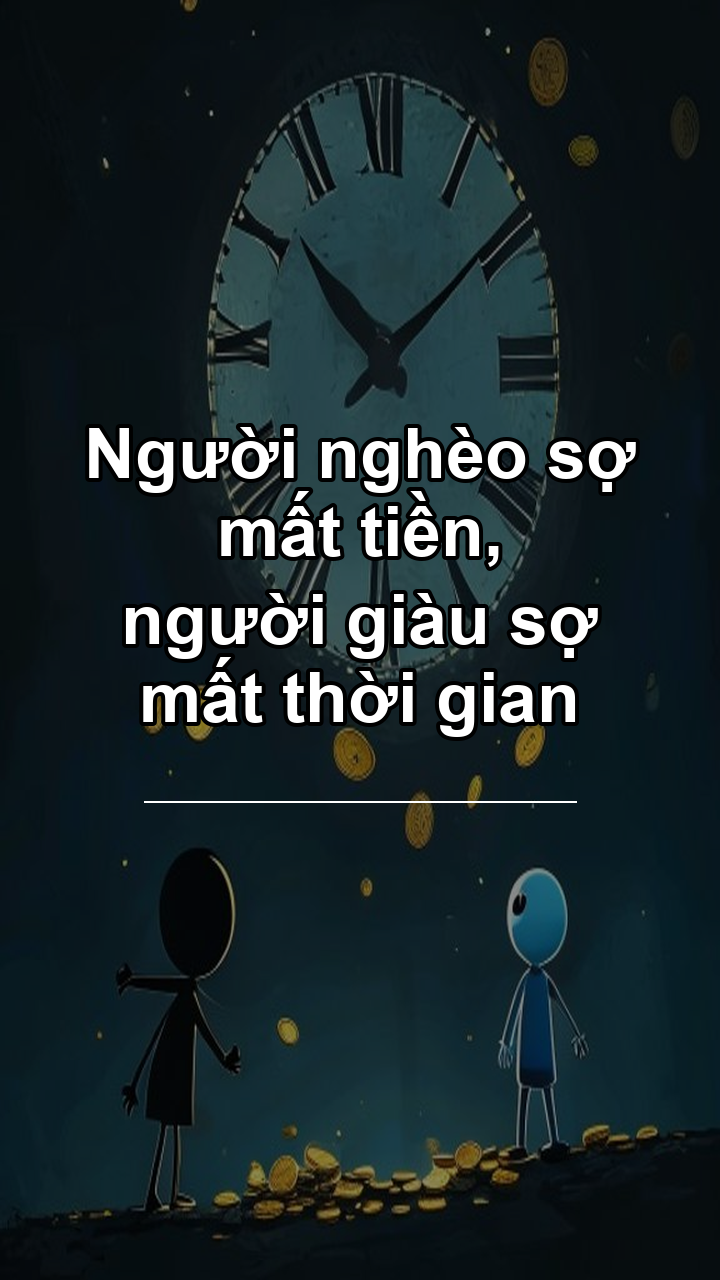
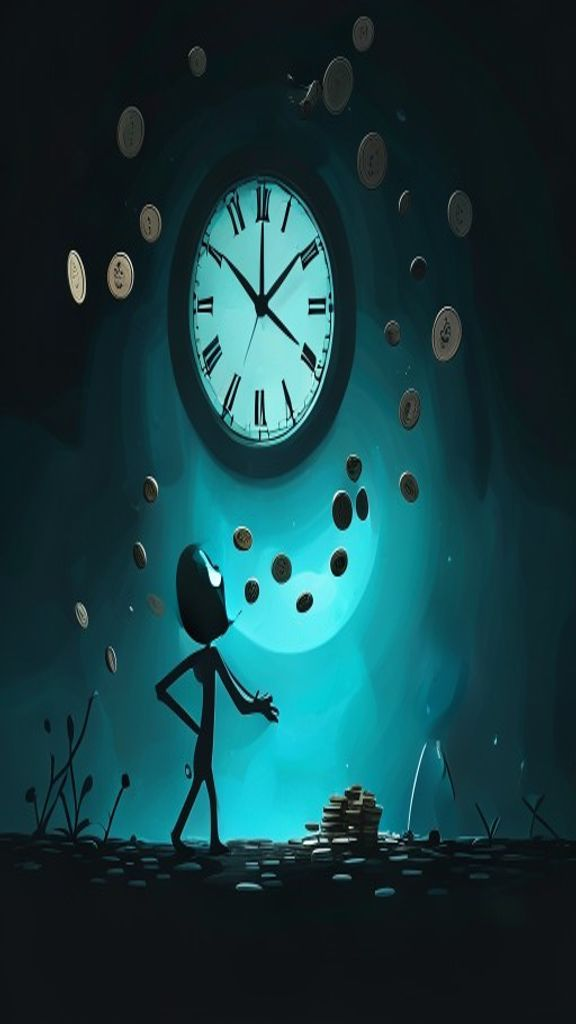
Update

diff --git a/pipeline/idea_parser.py b/pipeline/idea_parser.py
@@ -116,11 +116,9 @@ def parse_idea_file(filepath):
         camera_motion = _extract_camera(block, scene_id)
 
         # ═══════════════════════════════════════
-        # Parse phụ đề (nếu có trong file, ngược lại tự động tạo)
+        # Parse phụ đề (nếu có trong file, ngược lại tự động tạo bằng Gemini/fallback)
         # ═══════════════════════════════════════
         subtitle = _extract_subtitle(block)
-        if not subtitle:
-            subtitle = _make_subtitle(narration)
 
         scenes.append({
             "scene_id": scene_id,
@@ -136,6 +134,16 @@ def parse_idea_file(filepath):
         print("❌ File idea.txt không chứa scene nào hợp lệ!")
         print("   👉 Mỗi scene cần có: ## Thời gian:, Lời thoại, Visual Prompt")
         sys.exit(1)
+
+    # Tự động tóm tắt phụ đề bằng Gemini nếu thiếu
+    scenes_to_summarize = [s for s in scenes if not s["subtitle"]]
+    if scenes_to_summarize:
+        print(f"   📡 Đang tóm tắt {len(scenes_to_summarize)} phụ đề thiếu bằng Gemini...")
+        narrations = [s["narration"] for s in scenes_to_summarize]
+        summarized_subs = batch_summarize_narrations(narrations)
+        for scene, sub in zip(scenes_to_summarize, summarized_subs):
+            scene["subtitle"] = sub
+            print(f"      📝 Scene {scene['scene_id']}: \"{scene['subtitle']}\"")
 
     # Gán fallback cho intro_prompt và outro_prompt nếu chưa có
     if not intro_prompt and scenes:
@@ -227,3 +235,113 @@ def _make_subtitle(narration, max_len=65):
         truncated = truncated[:last_space]
 
     return truncated + "..."
+
+
+def batch_summarize_narrations(narrations):
+    """
+    Sử dụng Gemini để tóm tắt danh sách lời thoại thành các phụ đề siêu ngắn gọn (< 8 từ) bằng tiếng Việt.
+    """
+    import google.generativeai as genai
+    from config import GEMINI_API_KEY, GEMINI_MODEL, GEMINI_FALLBACK_MODELS
+    import json
+
+    if not GEMINI_API_KEY or GEMINI_API_KEY == "YOUR_API_KEY_HERE" or GEMINI_API_KEY == "":
+        print("   ⚠️  Không tìm thấy Gemini API Key, sử dụng thuật toán tóm tắt local...")
+        return [_local_fallback_summary(n) for n in narrations]
+
+    genai.configure(api_key=GEMINI_API_KEY)
+
+    # Xây dựng prompt
+    prompt = """Bạn là chuyên gia viết phụ đề cho video ngắn (TikTok/Reels/Shorts).
+Hãy tóm tắt các câu thoại dưới đây thành các phụ đề (subtitle) siêu ngắn, súc tích (dưới 8 từ, tuyệt đối KHÔNG chứa dấu ba chấm "...") bằng tiếng Việt.
+Yêu cầu phụ đề phải cô đọng được ý chính hoặc thông điệp cốt lõi của câu thoại để người xem có thể đọc lướt trên điện thoại trong 1-2 giây. Tuyệt đối không dịch nghĩa thô hay chỉ cắt cụt câu.
+
+Danh sách câu thoại cần tóm tắt:
+"""
+    for i, narration in enumerate(narrations):
+        prompt += f"{i+1}. {narration}\n"
+
+    prompt += """
+Trả về kết quả dưới dạng một JSON array gồm các chuỗi (string) phụ đề tương ứng, ví dụ:
+[
+  "Phụ đề tóm tắt 1",
+  "Phụ đề tóm tắt 2"
+]
+Chú ý: Chỉ trả về JSON thuần túy, không có markdown (như ```json) hay giải thích gì thêm."""
+
+    # Thử model chính trước, sau đó fallback
+    models_to_try = [GEMINI_MODEL] + [m for m in GEMINI_FALLBACK_MODELS if m != GEMINI_MODEL]
+
+    for model_name in models_to_try:
+        try:
+            model = genai.GenerativeModel(model_name)
+            response = model.generate_content(prompt)
+            text = response.text.strip()
+
+            # Clean JSON response
+            if text.startswith("```"):
+                first_newline = text.find("\n")
+                if first_newline != -1:
+                    text = text[first_newline + 1:]
+                last_backtick = text.rfind("```")
+                if last_backtick != -1:
+                    text = text[:last_backtick]
+            text = text.strip()
+            
+            start = text.find("[")
+            end = text.rfind("]")
+            if start != -1 and end != -1 and end > start:
+                text = text[start:end + 1]
+
+            subtitles = json.loads(text)
+            if isinstance(subtitles, list) and len(subtitles) == len(narrations):
+                cleaned = [str(s).strip('"\u201c\u201d\u2018\u2019 ') for s in subtitles]
+                return cleaned
+        except Exception as e:
+            print(f"   ⚠️ Lỗi với model '{model_name}': {e}")
+            continue
+
+    print("   ⚠️ Tất cả các model tóm tắt đều thất bại, dùng local fallback...")
+    return [_local_fallback_summary(n) for n in narrations]
+
+
+def _local_fallback_summary(narration, max_words=8):
+    """
+    Tóm tắt local thông minh hơn bằng cách tách các vế câu qua dấu câu (dấu phẩy, hai chấm, chấm phẩy, ba chấm).
+    Đảm bảo câu ngắn gọn nhưng có ý nghĩa trọn vẹn, không bị cắt cụt lửng lơ ở cuối từ.
+    """
+    # Loại bỏ ngoặc kép và khoảng trắng thừa
+    text = narration.strip('"\u201c\u201d\u2018\u2019 ')
+    
+    # Tách câu đầu tiên nếu có nhiều câu
+    sentences = re.split(r'[.?!]', text)
+    sentences = [s.strip() for s in sentences if s.strip()]
+    first_sentence = sentences[0] if sentences else text
+    
+    # Nếu câu đầu tiên ngắn (dưới max_words từ), lấy luôn cả câu
+    words = first_sentence.split()
+    if len(words) <= max_words:
+        return first_sentence
+        
+    # Tách câu thành các vế bằng các dấu câu phổ biến
+    clauses = re.split(r'[,:;…\-\—]', first_sentence)
+    clauses = [c.strip() for c in clauses if c.strip()]
+    
+    # Duyệt qua các vế để tìm vế có độ dài thích hợp nhất (từ 3 đến max_words từ)
+    for clause in clauses:
+        clause_words = clause.split()
+        if 3 <= len(clause_words) <= max_words:
+            # Viết hoa chữ cái đầu
+            if len(clause) > 1:
+                return clause[0].upper() + clause[1:]
+            return clause
+            
+    # Nếu không tìm thấy vế nào phù hợp, lấy vế đầu tiên nếu vế đó dưới 10 từ
+    if clauses:
+        first_clause = clauses[0]
+        clause_words = first_clause.split()
+        if len(clause_words) <= 10:
+            return first_clause
+            
+    # Fallback cuối cùng: cắt cúp theo số lượng từ tối đa nhưng không thêm dấu ba chấm
+    return " ".join(words[:max_words])

diff --git a/pipeline/image_generator.py b/pipeline/image_generator.py
@@ -167,20 +167,21 @@ def _get_portrait_request_size():
     return width, height
 
 
-def burn_subtitle_to_image(image_path, subtitle_text):
+def draw_subtitle_on_image_obj(img, subtitle_text):
     """
-    Vẽ phụ đề trực tiếp lên hình ảnh tĩnh (burned-in subtitle).
-    Giúp hỗ trợ phụ đề ngay cả khi FFmpeg không có filter 'subtitles' hoặc 'drawtext'.
+    Vẽ phụ đề trực tiếp lên một đối tượng PIL Image.
+    Trả về ảnh đã được vẽ phụ đề.
     """
     if not subtitle_text:
-        return
+        return img
     try:
         from PIL import Image, ImageDraw, ImageFont
         import textwrap
 
-        img = Image.open(image_path)
-        draw = ImageDraw.Draw(img)
-        width, height = img.size
+        # Tạo bản sao RGBA để vẽ overlay trong suốt
+        img_rgba = img.convert('RGBA')
+        draw = ImageDraw.Draw(img_rgba)
+        width, height = img_rgba.size
 
         # Cấu hình text — dùng tỷ lệ từ config
         font_size = int(height * SUBTITLE_FONT_SIZE_RATIO)
@@ -206,7 +207,7 @@ def burn_subtitle_to_image(image_path, subtitle_text):
             font = ImageFont.load_default()
 
         # Wrap text thành các dòng tối đa ~40 ký tự tiếng Việt
-        lines = textwrap.wrap(subtitle_text, width=45)
+        lines = textwrap.wrap(subtitle_text, width=40)
         
         # Tính kích thước khối chữ
         line_heights = []
@@ -231,15 +232,15 @@ def burn_subtitle_to_image(image_path, subtitle_text):
         box_x2 = min(width - 10, box_x2)
 
         # Vẽ nền đen bán trong suốt cực kỳ nhẹ (khoảng 33% opacity)
-        overlay = Image.new('RGBA', img.size, (0, 0, 0, 0))
+        overlay = Image.new('RGBA', img_rgba.size, (0, 0, 0, 0))
         overlay_draw = ImageDraw.Draw(overlay)
         overlay_draw.rounded_rectangle(
             [box_x1, box_y1, box_x2, box_y2],
             radius=8,
             fill=(0, 0, 0, 85)
         )
-        img = Image.alpha_composite(img.convert('RGBA'), overlay)
-        draw = ImageDraw.Draw(img)
+        img_rgba = Image.alpha_composite(img_rgba, overlay)
+        draw = ImageDraw.Draw(img_rgba)
 
         # Vẽ chữ màu trắng với viền đen dày (stroke outline) đè lên trên nền mờ
         current_y = box_y1 + 8
@@ -257,8 +258,24 @@ def burn_subtitle_to_image(image_path, subtitle_text):
             )
             current_y += line_heights[i] + 8
 
-        # Lưu đè lên ảnh gốc
-        img.convert('RGB').save(image_path)
+        return img_rgba.convert('RGB')
+    except Exception as e:
+        print(f"      ⚠️ Không thể vẽ phụ đề lên đối tượng ảnh: {e}")
+        return img
+
+
+def burn_subtitle_to_image(image_path, subtitle_text):
+    """
+    Vẽ phụ đề trực tiếp lên hình ảnh tĩnh (burned-in subtitle).
+    Giúp hỗ trợ phụ đề ngay cả khi FFmpeg không có filter 'subtitles' hoặc 'drawtext'.
+    """
+    if not subtitle_text:
+        return
+    try:
+        from PIL import Image
+        img = Image.open(image_path)
+        img_with_sub = draw_subtitle_on_image_obj(img, subtitle_text)
+        img_with_sub.save(image_path)
         print(f"      📝 Đã burn phụ đề vào ảnh (Bold + Outline): \"{subtitle_text}\"")
     except Exception as e:
         print(f"      ⚠️ Không thể burn phụ đề vào ảnh: {e}")

diff --git a/pipeline/video_animator.py b/pipeline/video_animator.py
@@ -36,9 +36,10 @@ def _resize_cover(img, width, height):
     return resized.crop((left, top, left + width, top + height))
 
 
-def _render_zoom_frames(image_path, process, total_frames, camera_motion):
+def _render_zoom_frames(image_path, process, total_frames, camera_motion, subtitle_text=None):
     """Render từng frame bằng Pillow rồi pipe raw RGB vào FFmpeg."""
     from PIL import Image
+    from pipeline.image_generator import draw_subtitle_on_image_obj
 
     base = Image.open(image_path).convert("RGB")
     base = _resize_cover(base, VIDEO_WIDTH, VIDEO_HEIGHT)
@@ -52,6 +53,11 @@ def _render_zoom_frames(image_path, process, total_frames, camera_motion):
         left = (zoom_w - VIDEO_WIDTH) // 2
         top = (zoom_h - VIDEO_HEIGHT) // 2
         frame = frame.crop((left, top, left + VIDEO_WIDTH, top + VIDEO_HEIGHT))
+        
+        # Vẽ phụ đề tĩnh trực tiếp lên frame đã crop chính xác kích thước video 9:16
+        if subtitle_text:
+            frame = draw_subtitle_on_image_obj(frame, subtitle_text)
+            
         process.stdin.write(frame.tobytes())
 
 
@@ -65,7 +71,7 @@ def _resampling_lanczos():
         return Image.LANCZOS
 
 
-def animate_image(image_path, output_path, duration, camera_motion="zoom_in"):
+def animate_image(image_path, output_path, duration, camera_motion="zoom_in", subtitle_text=None):
     """
     Tạo video từ ảnh tĩnh với hiệu ứng Ken Burns (zoom only, mượt mà).
 
@@ -74,6 +80,7 @@ def animate_image(image_path, output_path, duration, camera_motion="zoom_in"):
         output_path: Đường dẫn file video output (.mp4)
         duration: Thời lượng video (giây)
         camera_motion: Loại hiệu ứng (zoom_in hoặc zoom_out)
+        subtitle_text: Nội dung phụ đề (nếu muốn vẽ trực tiếp lên các frame của video)
     """
     # Kiểm tra FFmpeg
     _check_ffmpeg()
@@ -109,7 +116,7 @@ def animate_image(image_path, output_path, duration, camera_motion="zoom_in"):
             stdout=subprocess.PIPE,
             stderr=subprocess.PIPE
         )
-        _render_zoom_frames(image_path, process, total_frames, camera_motion)
+        _render_zoom_frames(image_path, process, total_frames, camera_motion, subtitle_text)
         _, stderr = process.communicate()
         if process.returncode != 0:
             raise subprocess.CalledProcessError(

diff --git a/main.py b/main.py
@@ -225,7 +225,8 @@ Chế độ sử dụng:
 
         print(f"   🖼️  Scene {sid}: \"{scene['visual_prompt'][:60]}...\"")
         generate_image(scene["visual_prompt"], image_path)
-        burn_subtitle_to_image(image_path, scene["subtitle"])
+        # Không burn trực tiếp lên ảnh tĩnh để tránh bị phóng to/méo hình khi zoom
+        print(f"      📝 Đã lưu ảnh sạch, phụ đề sẽ được vẽ tĩnh trực tiếp lên video: \"{scene['subtitle']}\"")
 
     print()
 
@@ -245,7 +246,8 @@ Chế độ sử dụng:
         animate_image(
             image_path, video_path,
             scene["actual_duration"],
-            scene["camera_motion"]
+            scene["camera_motion"],
+            subtitle_text=scene["subtitle"]
         )
         print(f"   ✅ scene_{sid}.mp4")
 

diff --git a/config.py b/config.py
@@ -67,7 +67,7 @@ AUDIO_BITRATE = "128k"     # 128kbps (trước: 63kbps mono)
 # 📝 Cấu hình phụ đề — Burned-in bằng Pillow
 # ============================================================
 SUBTITLE_FONT_SIZE_RATIO = 0.025  # Gần size cũ: ~32px trên ảnh/video cao 1280px
-SUBTITLE_Y_RATIO = 0.20            # Đưa phụ đề lên cao hơn, tránh bị nút UI của các MXH che khuất
+SUBTITLE_Y_RATIO = 0.40            # Đưa phụ đề lên cao hơn (khu vực an toàn), tránh bị giao diện MXH che khuất
 
 # Giữ lại SUBTITLE_STYLE cho fallback FFmpeg subtitles filter
 SUBTITLE_STYLE = (

diff --git a/README.md b/README.md
@@ -1,4 +1,4 @@
-<![CDATA[<div align="center">
+<div align="center">
 
 # 🎬 Auto Video AI — Pipeline v2.1
 
@@ -447,4 +447,3 @@ Pipeline được thiết kế với nhiều lớp bảo vệ để đảm bảo
 *Nếu dự án hữu ích, hãy ⭐ star repo này!*
 
 </div>
-]]>